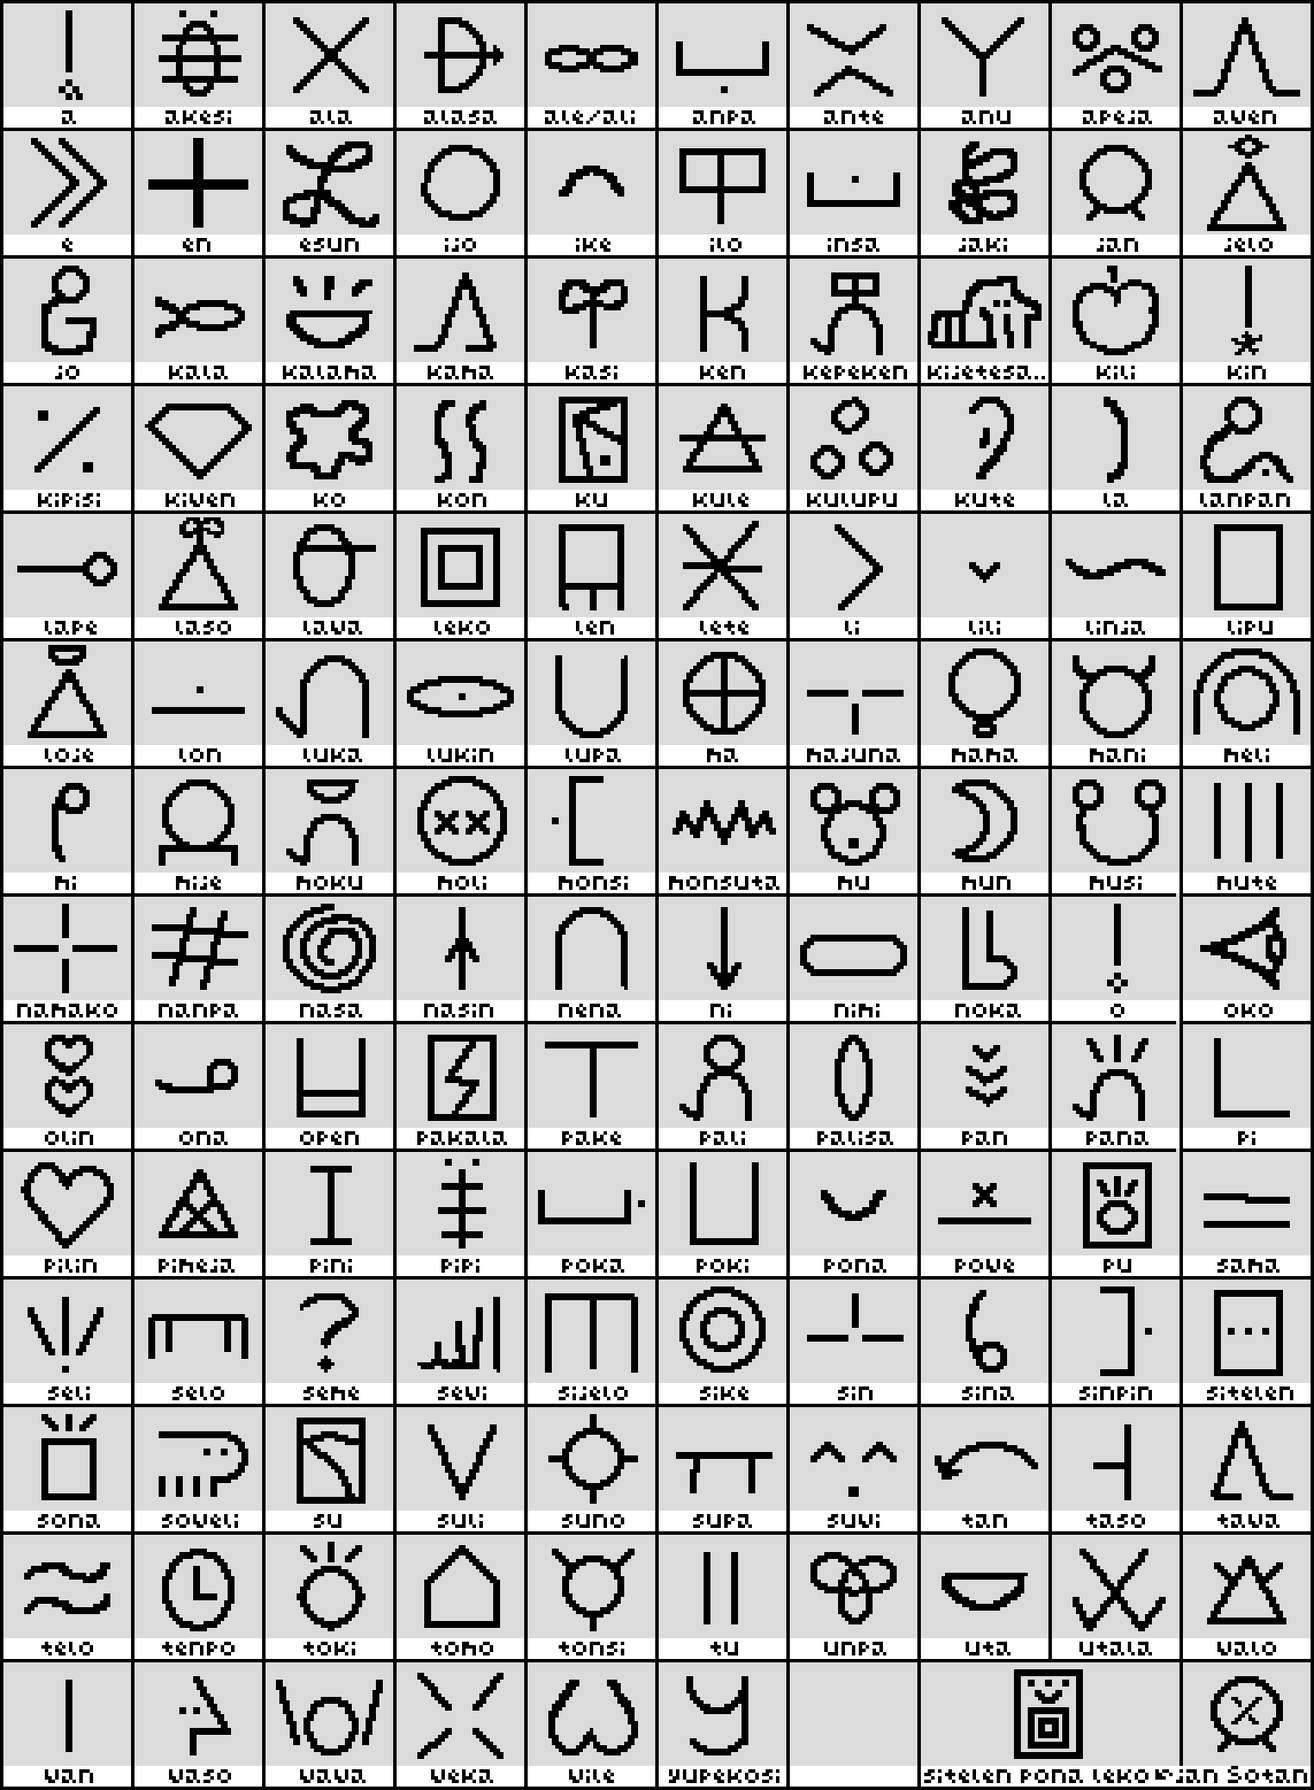
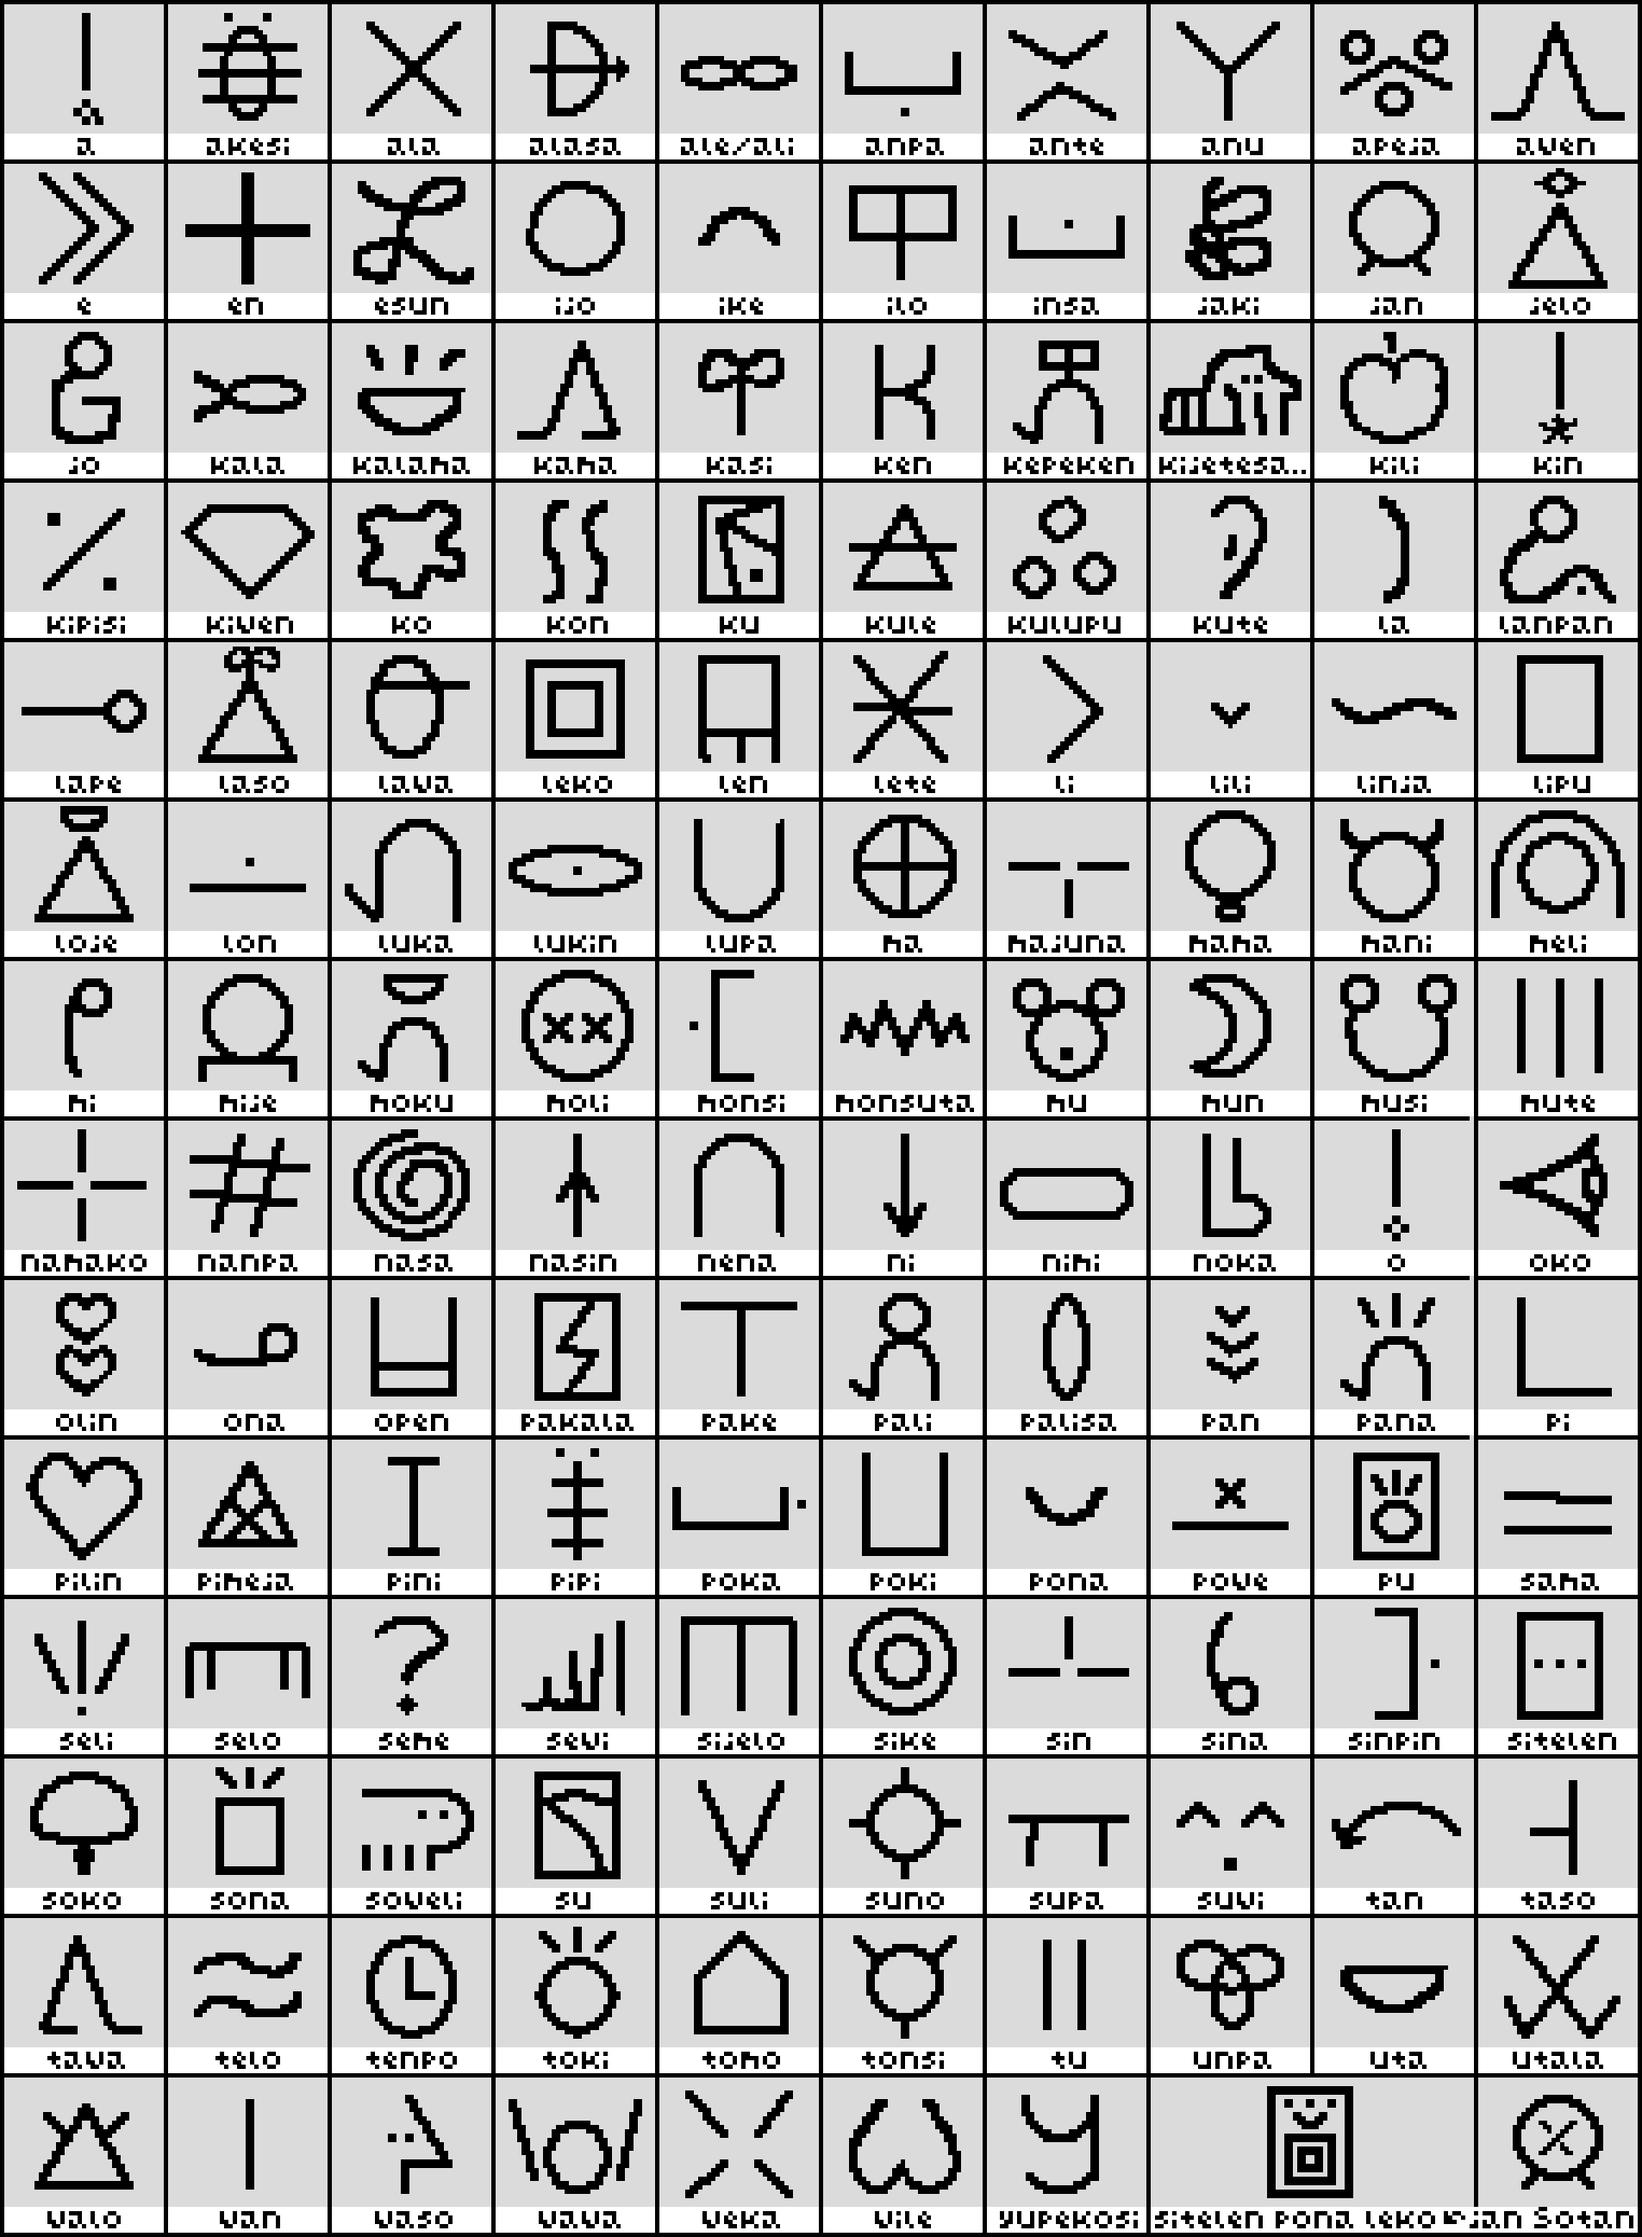
Added the word "soko"

diff --git a/render_images.py b/render_images.py
@@ -1,7 +1,7 @@
 from PIL import Image, ImageDraw
 from copy import deepcopy
 
-ORIGINAL = "pics/sitelen_pona_leko/sitelen-pona-leko-trans.png"
+ORIGINAL = "docs/pics/sitelen_pona_leko/sitelen-pona-leko-400.png"
 OUT_DIR = "docs/pics/"
 BORDER_WIDTH = 4
 IMAGE_WIDTH = 148
@@ -120,6 +120,7 @@ WORDS = [
     "sina",
     "sinpin",
     "sitelen",
+    "soko",
     "sona",
     "soweli",
     "su",

diff --git a/dict_en.md b/dict_en.md
@@ -6,7 +6,7 @@ There are multiple different dictionaries that can be found with word counts mos
 Due to the small number of words, definitions may be vague and toki pona relies more on context than most languages. It also prefers to "leave out" unimportant details, favoring simplicity.
 { .hidden }
 
-This dictionary contains 144 words (135 common + 9 archaic ones), including the entirety of *pu*'s dictionary, in addition to select pre-pu words (that were either replaced or deprecated) and post-pu words -- these additions are all present in *ku*. Word usage can vary between groups and dialects, but generally it is best practice to mostly restrict ourselves to use words found in *pu*; non-pu words will have a `p`&shy;`u` version after their definitions to offer "pu friendly" alternatives and older, archaic words that are seldom used will be marked with a leading asterisk (`*`).
+This dictionary contains 145 words (136 common + 9 archaic ones), including the entirety of *pu*'s dictionary, in addition to select pre-pu words (that were either replaced or deprecated) and post-pu words -- these additions are all present in *ku*. Word usage can vary between groups and dialects, but generally it is best practice to mostly restrict ourselves to use words found in *pu*; non-pu words will have a `p`&shy;`u` version after their definitions to offer "pu friendly" alternatives and older, archaic words that are seldom used will be marked with a leading asterisk (`*`).
 { .hidden .keep }
 
 ### Abbreviations
@@ -668,6 +668,10 @@ __sitelen__ ![sitelen](pics/sitelen.png)
 `n`&shy;` ` drawing, writing, picture, image, symbol, visual representation of something  
 `v`&shy;` ` draw, write, paint  
 `m`&shy;` ` written, drawn  
+
+__soko__ ![soko](pics/soko.png)  
+`n`&shy;` ` mushroom, fungus  
+`pu`&shy;` ` kili
 
 __sona__ ![sona](pics/sona.png)  
 `n`&shy;`1` knowledge, data and information  

diff --git a/dict_hu.md b/dict_hu.md
@@ -671,6 +671,10 @@ __sitelen__ ![sitelen](pics/sitelen.png)
 `i`&shy;` ` draw, write, paint  
 `m`&shy;` ` written, drawn  
 
+__soko__ ![soko](pics/soko.png)  
+`n`&shy;` ` mushroom, fungus  
+`pu`&shy;` ` kili
+
 __sona__ ![sona](pics/sona.png)  
 `f`&shy;`1` knowledge, data and information  
 `f`&shy;`2` intelligence, wisdom  
